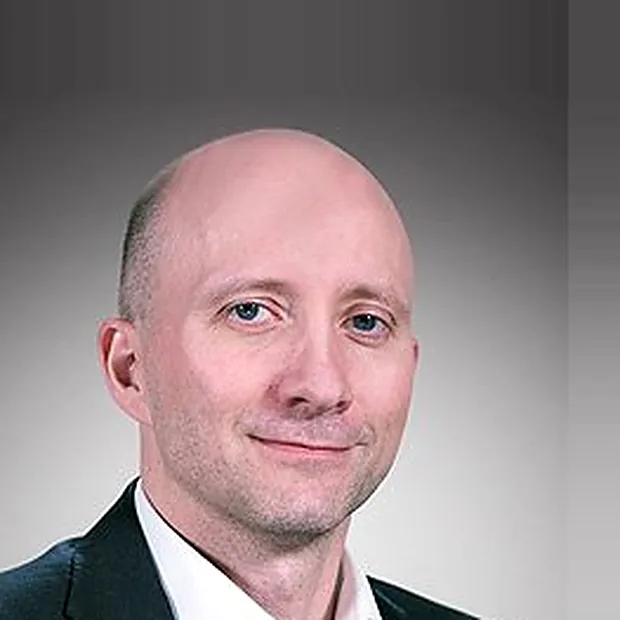
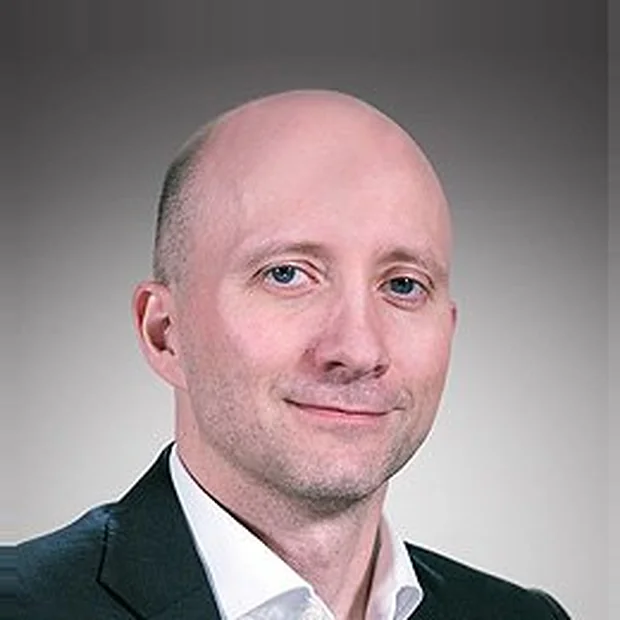
Restore full desktop clinical PI headshot sizes and align Aaron framing

diff --git a/tests/haneul-team.test.js b/tests/haneul-team.test.js
@@ -199,11 +199,12 @@ test('All seven clinical PI images are optimized square portraits stored in the 
 });
 
 
-test('Only Aaron receives a smaller face framing; other six photos remain unchanged', async () => {
+test('Clinical PI portraits regain their previous desktop display size without CSS stretching', async () => {
   const { readFileSync } = await import('node:fs');
   const css = readFileSync(new URL('../src/styles/pages/team.css', import.meta.url), 'utf8');
-  assert.match(css, /\.clinical-pi-section \.portrait img\[src\$="\/aaron-bunnell\.webp"\]\s*\{[^}]*transform:\s*scale\(0\.88\)/);
-  const photos = clinical.principalInvestigators.map(person => person.photo);
-  assert.equal(new Set(photos).size, 7);
-  assert.equal(photos[1], 'images/team/clinical-pis/aaron-bunnell.webp');
+  assert.match(css, /@media \(min-width: 901px\)\s*\{\s*\.team-group-detail:has\(\.clinical-pi-section\)\s*\{\s*max-width:\s*1260px;/);
+  assert.match(css, /@media \(min-width: 901px\)[\s\S]*?\.clinical-pi-section \.members-grid\s*\{\s*max-width:\s*none;/);
+  assert.ok(!css.includes('transform: scale(0.88)'), 'Aaron framing is embedded in his image rather than CSS');
+  assert.equal(clinical.principalInvestigators[1].photo, 'images/team/clinical-pis/aaron-bunnell.webp');
+  assert.equal(clinical.principalInvestigators.length, 7);
 });

diff --git a/src/styles/pages/team.css b/src/styles/pages/team.css
@@ -268,13 +268,17 @@
   grid-column: 6 / span 2;
 }
 
-/* Aaron-only PI portrait framing: preserve the other six portraits and the W layout. */
-.clinical-pi-section .portrait:has(img[src$="/aaron-bunnell.webp"]) {
-  background: linear-gradient(180deg, #494648, #a8a5a5 72%, #918e8e);
-}
-.clinical-pi-section .portrait img[src$="/aaron-bunnell.webp"] {
-  transform: scale(0.88);
-  transform-origin: center center;
+/* Aaron's head size is matched inside his square image. Restore the
+ * wider desktop PI grid from the reference screenshot, leaving tablet
+ * and phone layouts unchanged.
+ */
+@media (min-width: 901px) {
+  .team-group-detail:has(.clinical-pi-section) {
+    max-width: 1260px;
+  }
+  .clinical-pi-section .members-grid {
+    max-width: none;
+  }
 }
 
 .clinical-pi-section .member-role {
